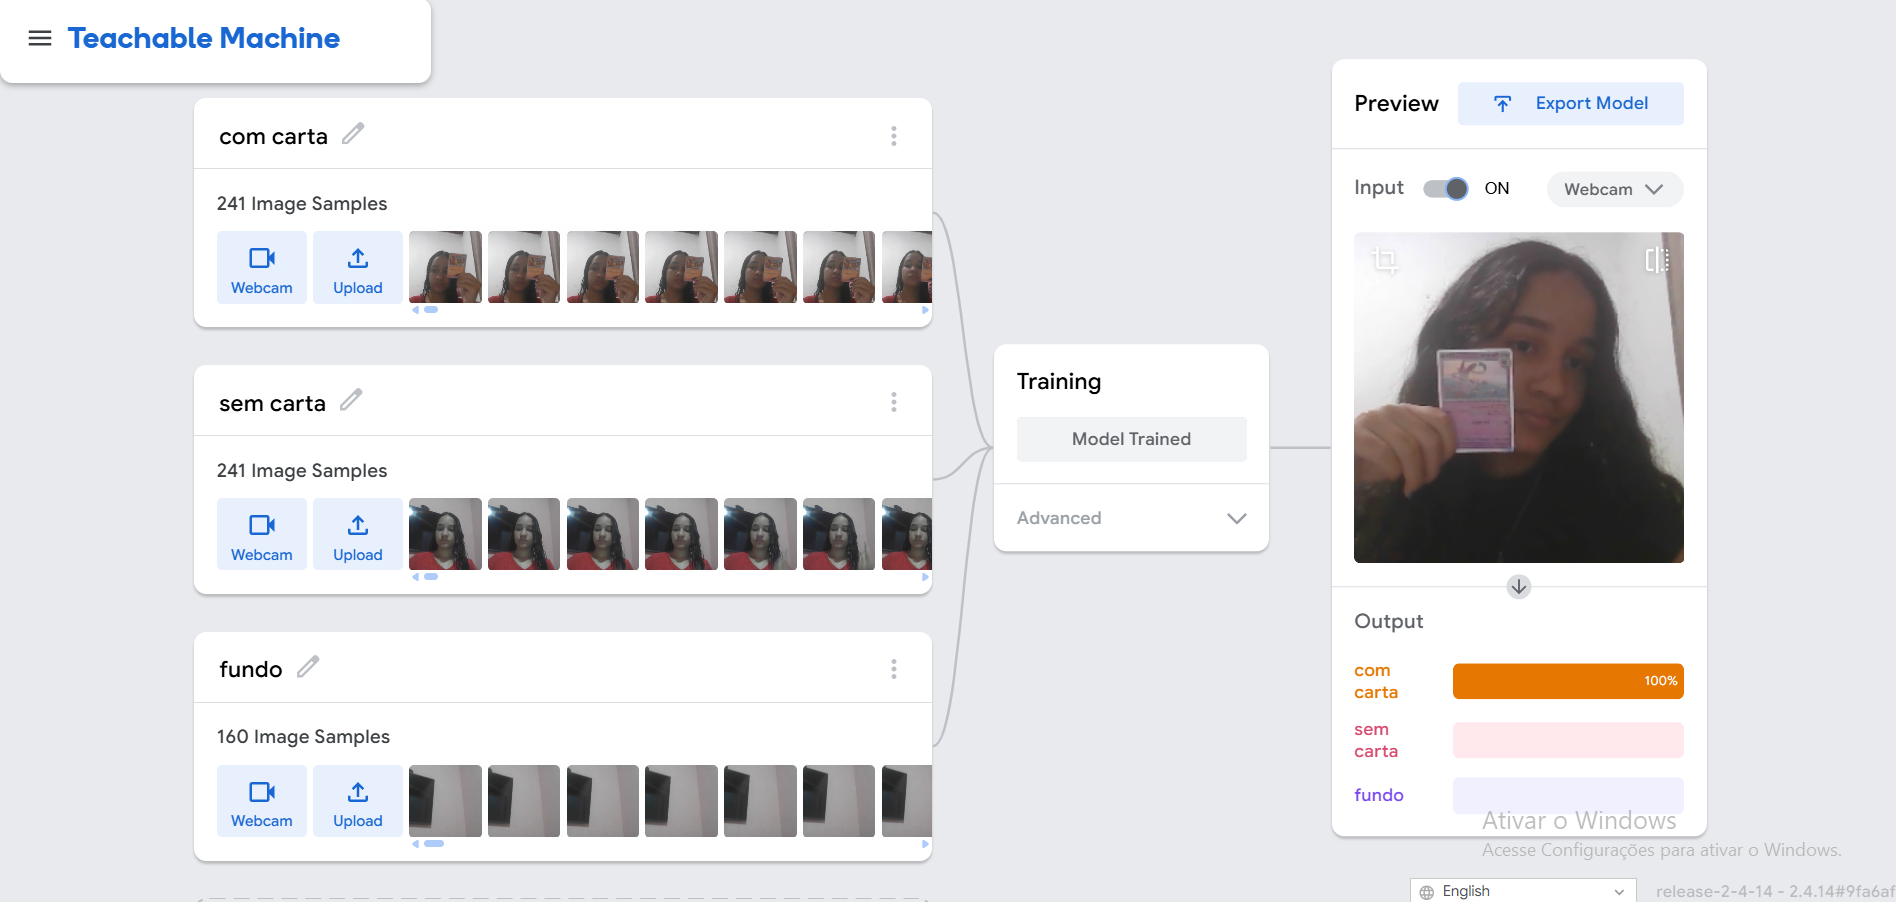
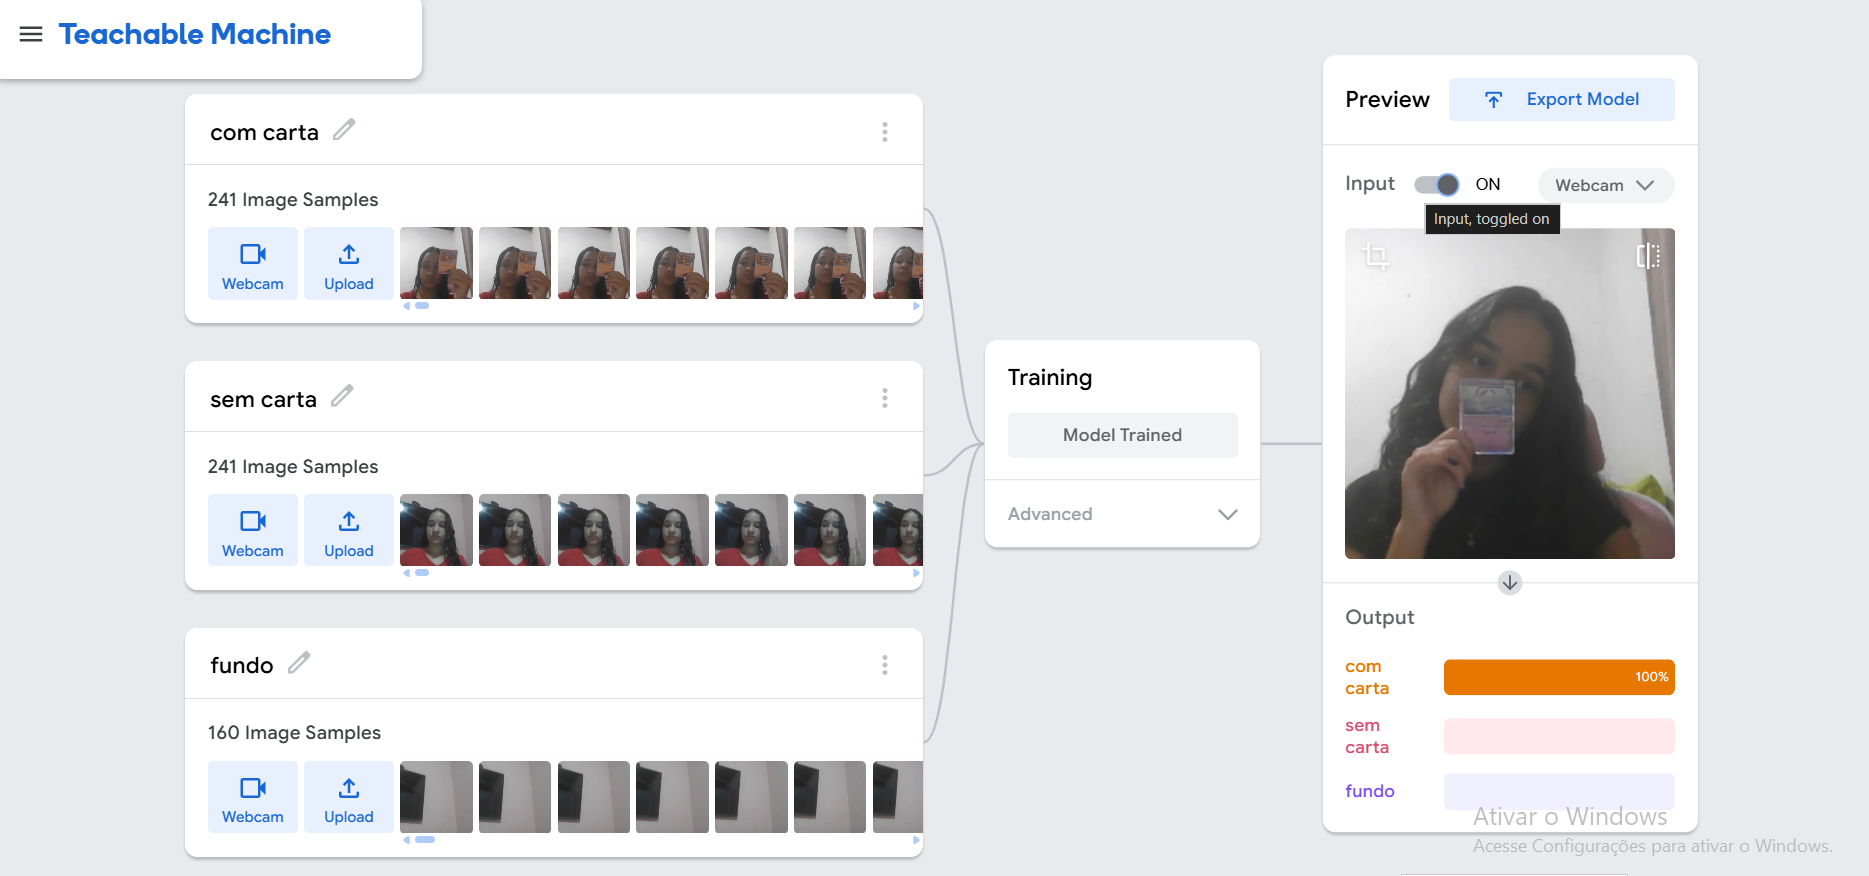
Atualizando Readme

diff --git a/index.html b/index.html
@@ -142,6 +142,12 @@
     color: var(--purple-900);
   }
 
+  .label-name::before {
+    content: "✦";
+    color: var(--purple-500);
+    margin-right: 6px;
+    font-size: 0.85em;
+  }
 
   .label-percent {
     font-weight: 700;

diff --git a/README.md b/README.md
@@ -63,15 +63,12 @@ Foram capturadas amostras em vídeo/imagem para cada uma das três classes (`com
 
 ## Prints de uso do modelo
 
-![Print com carta](./prints/com-carta.png)
-![Print sem carta](./prints/sem-carta.png)
-![Print fundo](./prints/fundo.png)
+![Print com carta](./prints/print-com-carta.png)
+![Print sem carta](./prints/print-sem-carta.png)
 
 ## Reflexão sobre os testes
 
-> Preencha esta seção com base nos testes reais feitos com o modelo. Abaixo está um modelo de reflexão — ajuste com o que você realmente observou.
-
-Durante os testes, o modelo [confundiu / não confundiu] as classes `com carta` e `sem carta` em algumas situações, principalmente quando [descreva a situação, ex: a carta estava parcialmente fora do quadro ou a iluminação estava mais fraca]. Isso provavelmente aconteceu por causa de [escolha o(s) motivo(s) mais prováveis: iluminação inconsistente entre as gravações de treino e o teste real; poucos exemplos de treino cobrindo diferentes ângulos e distâncias da carta; ou um fundo poluído/muito diferente do fundo usado durante a coleta de dados, o que fez o modelo associar parte do acerto ao ambiente e não apenas à carta]. Para reduzir esse erro, seria interessante gravar mais amostras variando iluminação, distância e fundo.
+Durante os testes, o modelo não confundiu as classes `com carta` e `sem carta`. Isso provavelmente aconteceu por causa do fundo sem informação, boa iluminação e falta de variação nos testes. Para conferir a qualidade real do modelo seria interessante testar em locais com fundo e iluminações diferentes.
 
 ## Como executar
 
